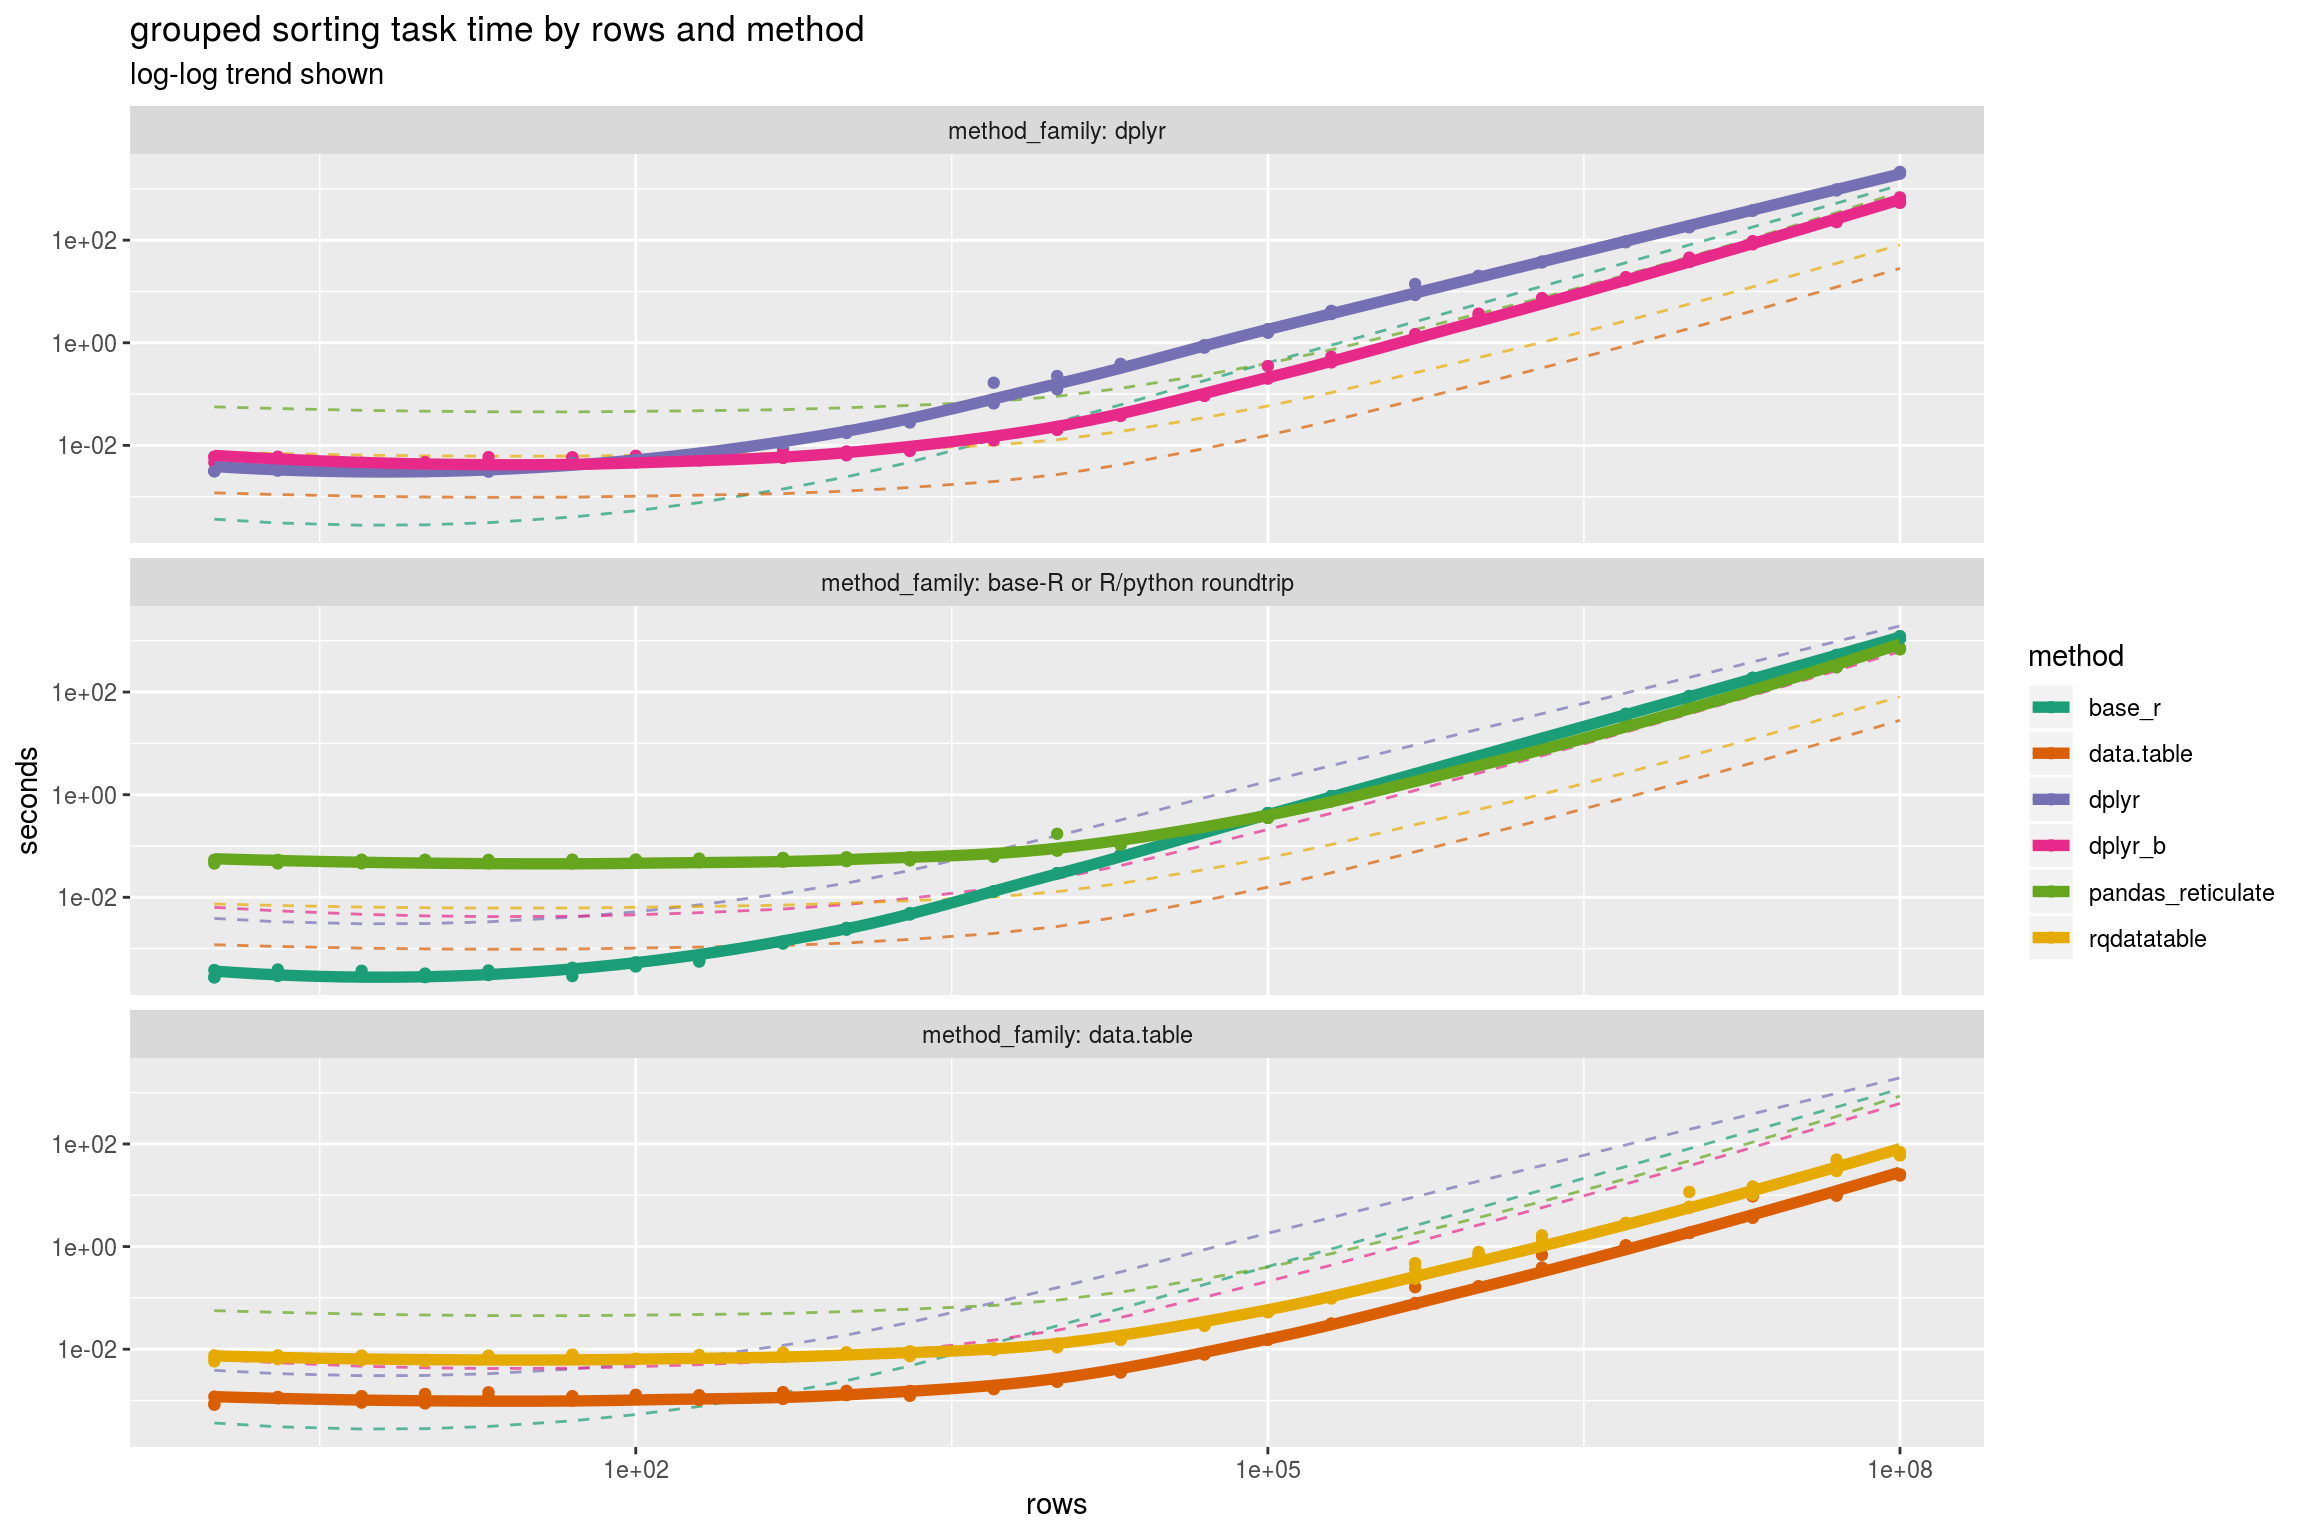
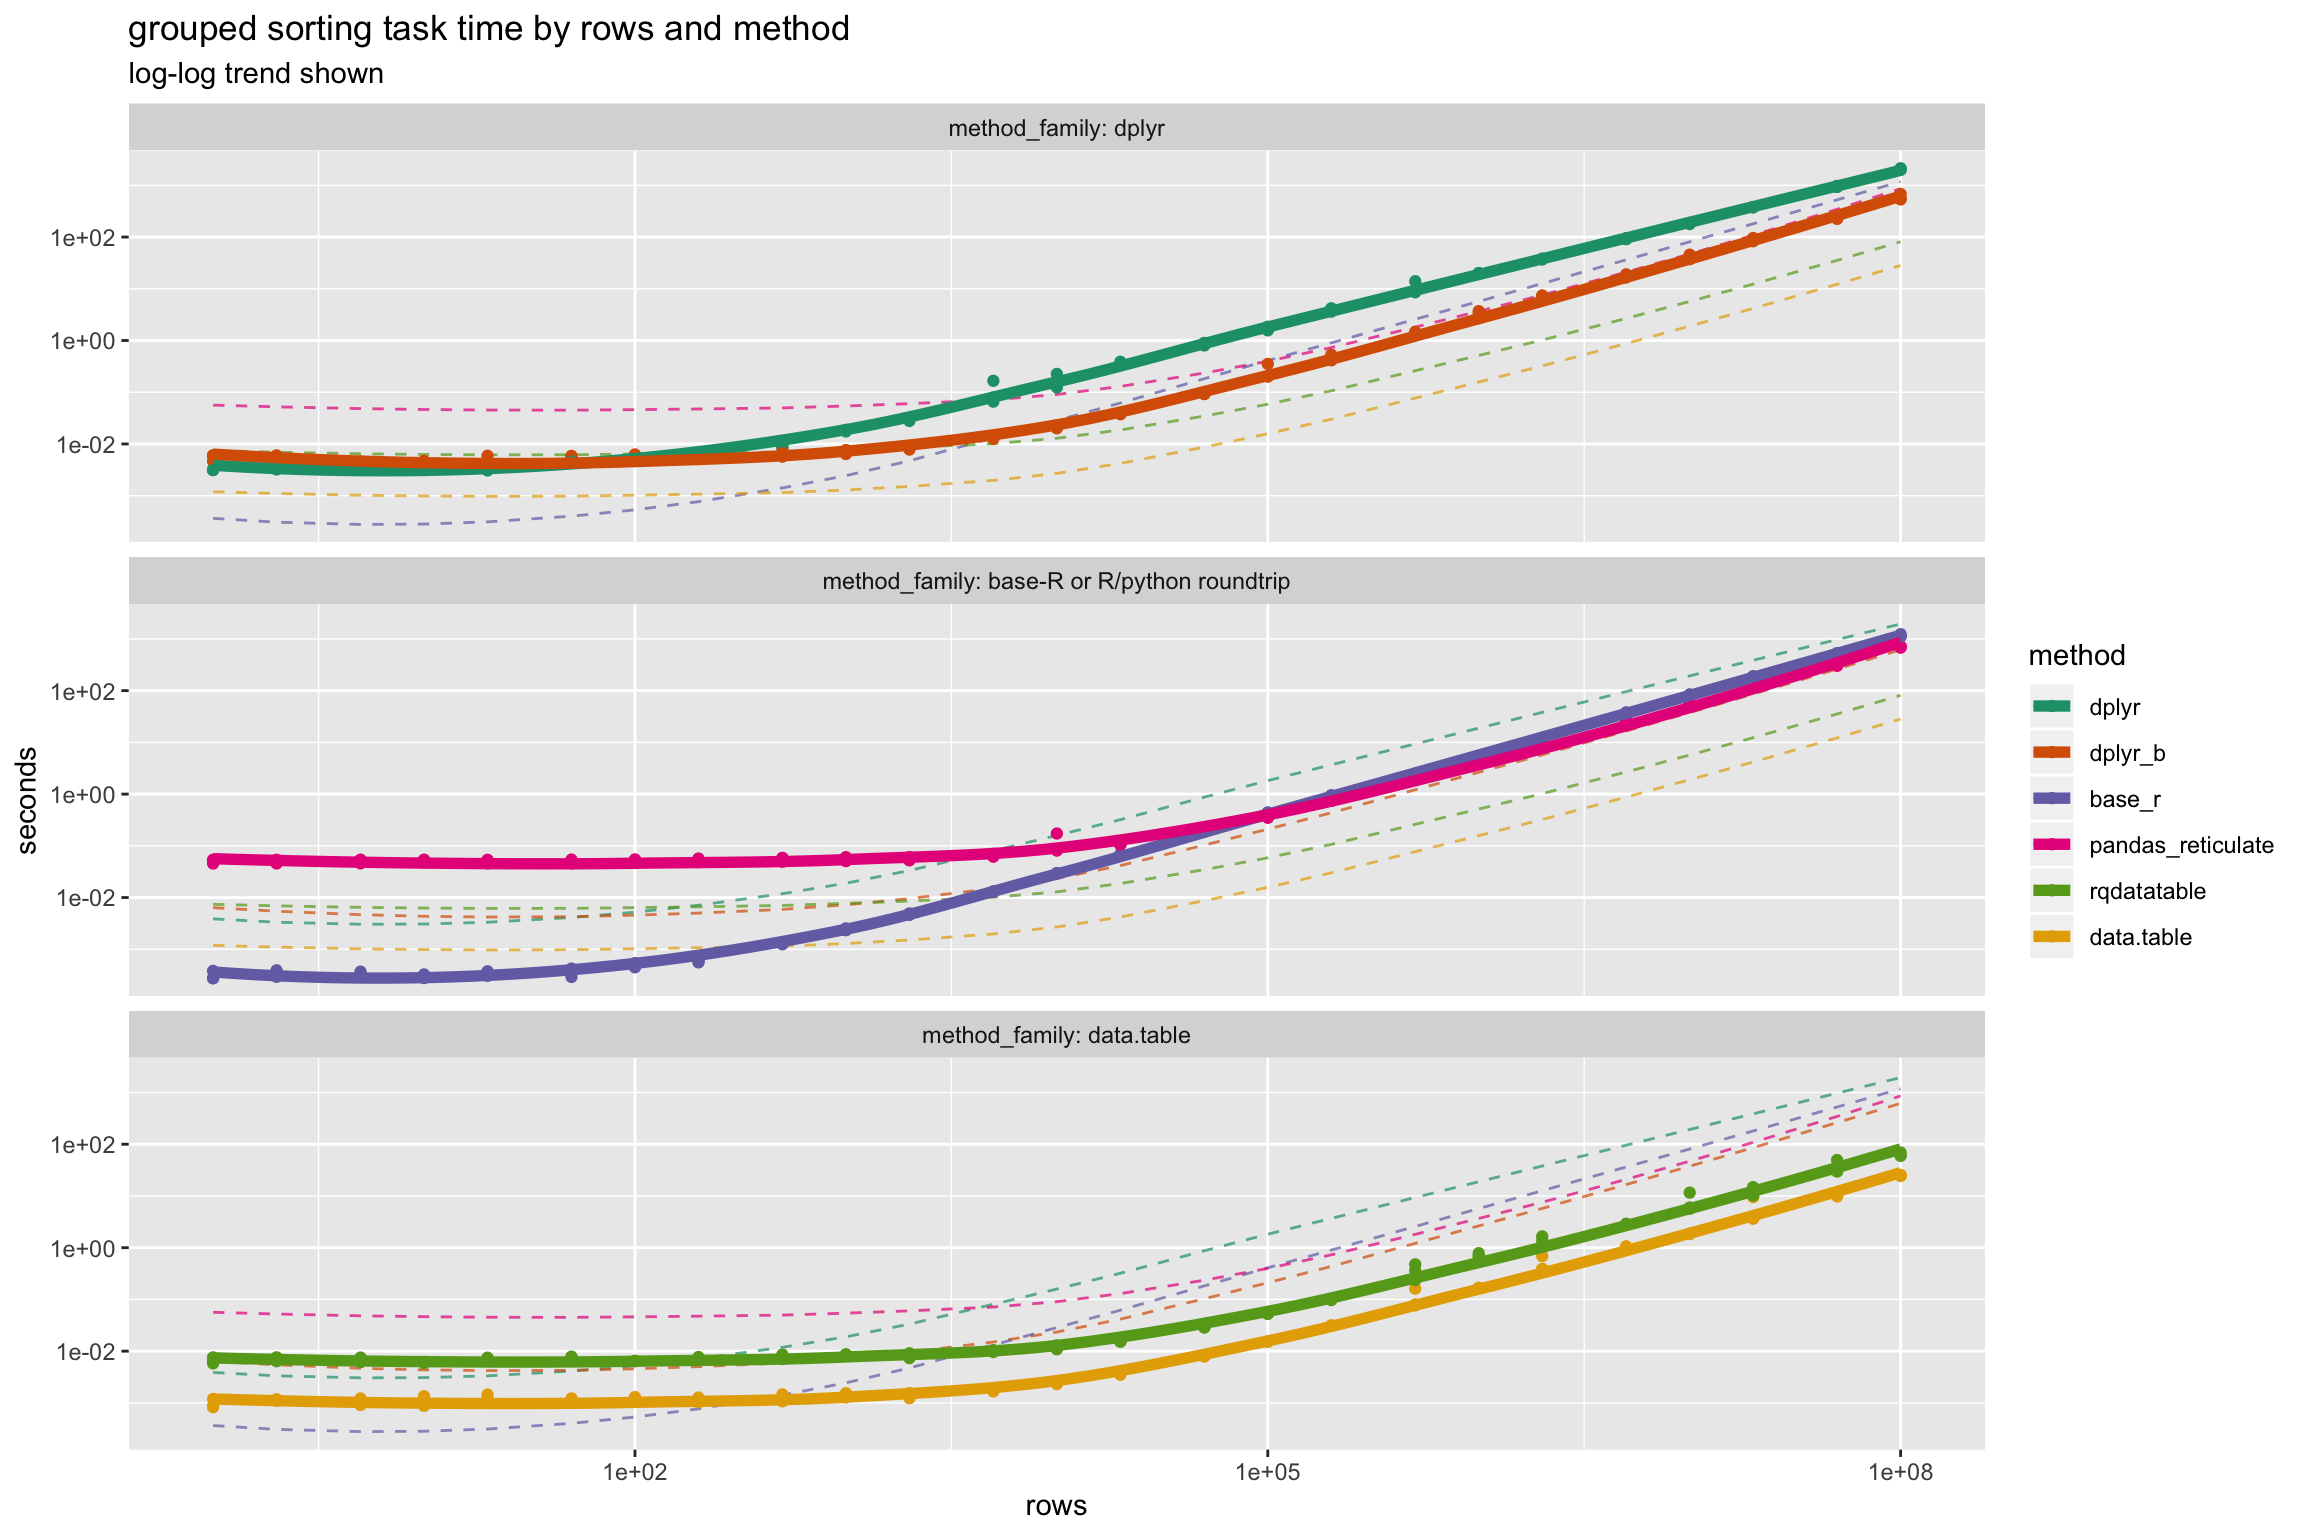
replot

diff --git a/extras/GroupedRankFilter2.md b/extras/GroupedRankFilter2.md
@@ -37,6 +37,8 @@ library("cdata")
 library("dplyr")
 ```
 
+    ## Warning: package 'dplyr' was built under R version 3.5.1
+
     ## 
     ## Attaching package: 'dplyr'
 
@@ -114,7 +116,7 @@ ds %>%
   arrange(col_a, col_b, col_c, col_x)
 ```
 
-    ## Error in rank(x, ties.method = "first", na.last = "keep"): argument "x" is missing, with no default
+    ## Error in data.table::is.data.table(data): argument "x" is missing, with no default
 
 ``` r
 shift_col <- function(col) { c(col[1], col[-length(col)]) }
@@ -230,6 +232,7 @@ smooths <- lapply(
     pi
   })
 smooths <- do.call(rbind, smooths)
+smooths$method <- factor(smooths$method, levels = levels(timings$method))
 
 ggplot(data = timings, aes(x = rows, y = seconds)) +
   geom_line(data = smooths,
